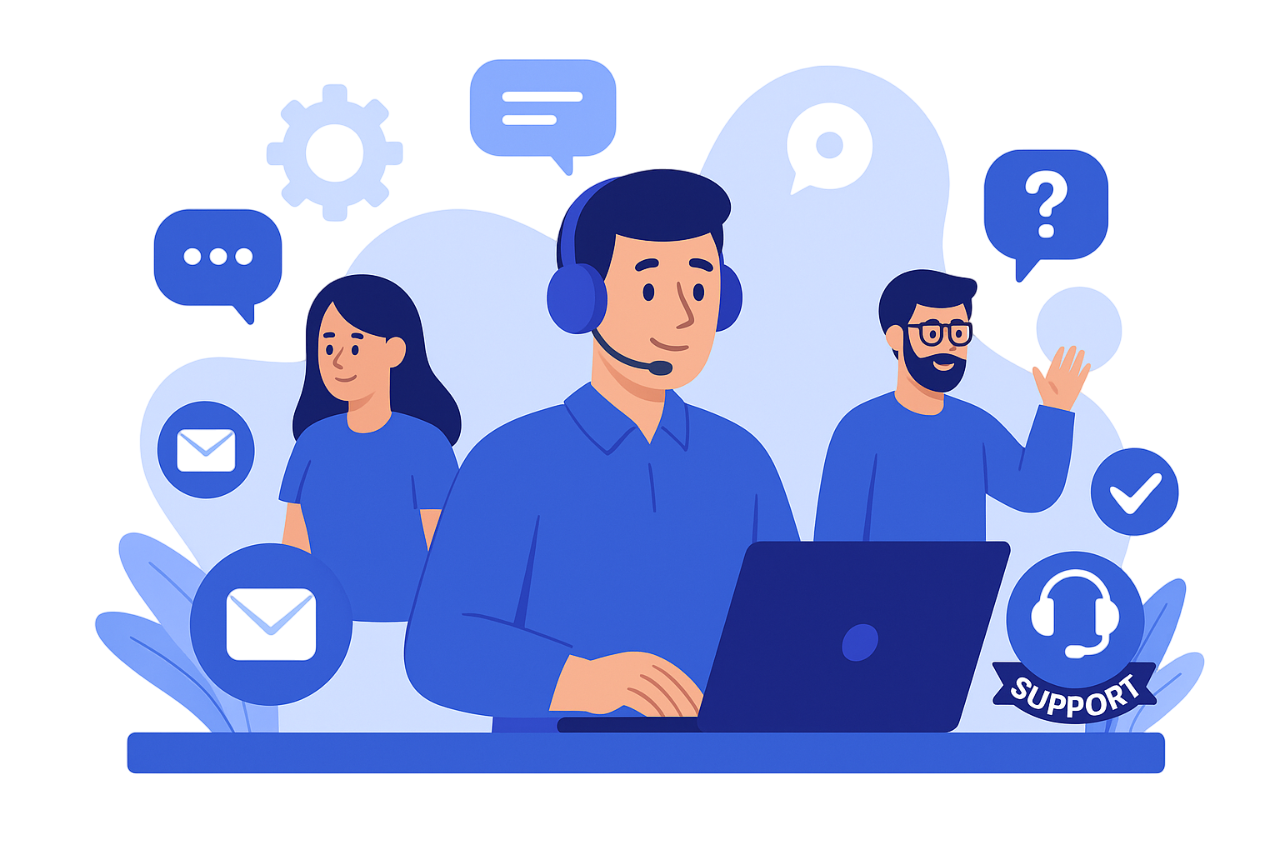
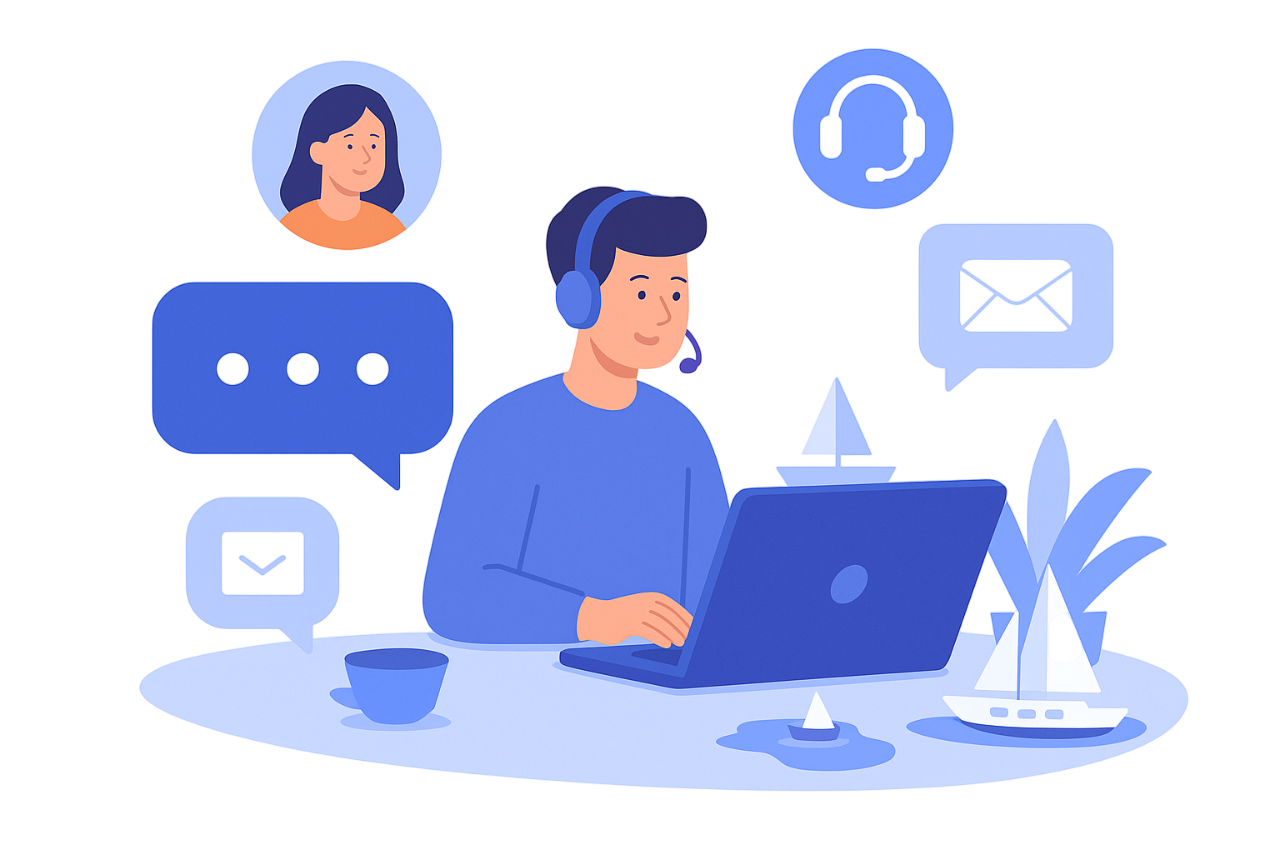
Add new images and update background styles for improved visual appeal across multiple components

diff --git a/src/pages/Pricing.jsx b/src/pages/Pricing.jsx
@@ -65,7 +65,10 @@ export default function Pricing() {
             <div className="grid grid-cols-1 md:grid-cols-3 gap-6 mb-8 max-w-5xl mx-auto">
               {/* Pricing Tier 1 */}
               <Reveal delay={0.3}>
-                <div className="bg-white rounded-2xl shadow-sm overflow-hidden h-full">
+                <div
+                  className="bg-white rounded-2xl overflow-hidden h-full shadow-lg"
+                  style={{ border: "2px solid #5371FF" }}
+                >
                   <div className="p-4 sm:p-6 h-full flex flex-col">
                     <div className="flex-grow">
                       <h3 className="text-[28px] sm:text-[32px] md:text-[38px] font-normal mb-2 text-center">
@@ -86,7 +89,10 @@ export default function Pricing() {
 
               {/* Pricing Tier 2 */}
               <Reveal delay={0.4}>
-                <div className="bg-white rounded-2xl shadow-sm overflow-hidden h-full">
+                <div
+                  className="bg-white rounded-2xl overflow-hidden h-full shadow-lg"
+                  style={{ border: "2px solid #5371FF" }}
+                >
                   <div className="p-4 sm:p-6 h-full flex flex-col">
                     <div className="flex-grow">
                       <h3 className="text-[28px] sm:text-[32px] md:text-[38px] font-normal mb-2 text-center">
@@ -107,7 +113,10 @@ export default function Pricing() {
 
               {/* Pricing Tier 3 */}
               <Reveal delay={0.5}>
-                <div className="bg-white rounded-2xl shadow-sm overflow-hidden h-full">
+                <div
+                  className="bg-white rounded-2xl overflow-hidden h-full shadow-lg"
+                  style={{ border: "2px solid #5371FF" }}
+                >
                   <div className="p-4 sm:p-6 h-full flex flex-col">
                     <div className="flex-grow">
                       <h3 className="text-[28px] sm:text-[32px] md:text-[38px] font-normal mb-2 text-center">

diff --git a/src/pages/Blog.jsx b/src/pages/Blog.jsx
@@ -140,13 +140,37 @@ export default function Blog() {
   return (
     <>
       {/* Hero Section */}
-      <div className="relative isolate px-6 py-24 lg:py-32 lg:px-8 ">
-        <div className="mx-auto max-w-6xl text-center">
+      <div
+        className="relative isolate px-6 py-24 lg:py-32 lg:px-8 hero-section"
+        style={{
+          backgroundImage: "url('/bg2.jpg')",
+        }}
+      >
+        {/* Add custom CSS for responsive background sizing */}
+        <style jsx>{`
+          @media (min-width: 1024px) {
+            .hero-section {
+              background-size: cover !important;
+              background-repeat: no-repeat !important;
+              background-position: "20% center";
+            }
+          }
+        `}</style>
+        {/* Dark overlay for better text visibility */}
+        {/* <div
+          className="absolute inset-0 bg-black opacity-50"
+          style={{ zIndex: 1 }}
+        /> */}
+
+        <div
+          className="mx-auto max-w-6xl text-center relative"
+          style={{ zIndex: 2 }}
+        >
           <Reveal delay={0.1}>
-            <h1 className="text-[50px] sm:text-[48px] lg:text-[52px] leading-[1.1] tracking-[-0.02em] font-bold mb-4 ">
+            <h1 className="text-[50px] sm:text-[48px] lg:text-[52px] leading-[1.1] tracking-[-0.02em] font-bold mb-4 text-white">
               The Harbr Blog
             </h1>
-            <p className=" text-lg mb-8 max-w-2xl mx-auto">
+            <p className="text-lg mb-8 max-w-2xl mx-auto text-white">
               Expand your marina management knowledge with detailed insights,
               industry trends, and best practices for modern marina operations.
             </p>

diff --git a/src/components/FeatureParallaxSection.jsx b/src/components/FeatureParallaxSection.jsx
@@ -61,8 +61,24 @@ export default function FeatureParallaxSection({ features, images }) {
 
           {/* Right Side - Fixed/Sticky Images */}
           <div className="relative">
-            <div className="lg:sticky lg:top-0 lg:h-screen flex items-center justify-center p-6 lg:p-12">
-              <div className="relative w-full h-[600px] lg:h-[700px] overflow-hidden rounded-2xl">
+            <div
+              className="lg:sticky lg:top-0 lg:h-screen flex items-center justify-center p-6 lg:p-12 py-16 lg:py-20"
+              style={{
+                backgroundImage: "url('/tablet.png')",
+                backgroundSize: "contain",
+                backgroundPosition: "center",
+                backgroundRepeat: "no-repeat",
+              }}
+            >
+              <div
+                className="relative w-full h-[600px] lg:h-[700px] overflow-hidden rounded-2xl"
+                // style={{
+                //   backgroundImage: "url('/tablet.png')",
+                //   backgroundSize: "contain",
+                //   backgroundPosition: "center",
+                //   backgroundRepeat: "no-repeat",
+                // }}
+              >
                 {/* Background Image - Always visible */}
                 <div className="absolute inset-0 w-full h-full">
                   {/* Background can be added here if needed */}

diff --git a/src/components/Footer.jsx b/src/components/Footer.jsx
@@ -1,6 +1,7 @@
 import logo from "../assets/harbr-logo3.svg";
 import InstagramIcon from "./icons/Instagram";
 import LinkedInIcon from "./icons/LinkedIn";
+import XIcon from "./icons/X";
 import { Link, useLocation, useNavigate } from "react-router-dom";
 import { trackEvent } from "../lib/analytics";
 
@@ -135,6 +136,15 @@ export default function Footer() {
                 className="text-zinc-500 hover:text-[#5371FF] transition-colors duration-200"
               >
                 <LinkedInIcon className="w-6 h-6 fill-current" />
+              </a>
+              <a
+                href="https://x.com/harbrapp"
+                target="_blank"
+                rel="noopener noreferrer"
+                aria-label="Follow Harbr on X"
+                className="text-zinc-500 hover:text-[#5371FF] transition-colors duration-200"
+              >
+                <XIcon className="w-6 h-6 fill-current" />
               </a>
             </div>
           </div>

diff --git a/src/components/Pricing.jsx b/src/components/Pricing.jsx
@@ -71,7 +71,8 @@ export default function Pricing() {
                 {pricingTiers.map((tier) => (
                   <div
                     key={tier.range}
-                    className="bg-zinc-50 rounded-2xl shadow-sm overflow-hidden h-full"
+                    className="bg-zinc-50 rounded-2xl overflow-hidden h-full shadow-lg"
+                    style={{ border: "2px solid #5371FF" }}
                   >
                     <div className="p-4 sm:p-6 h-full flex flex-col">
                       <div className="flex-grow">
